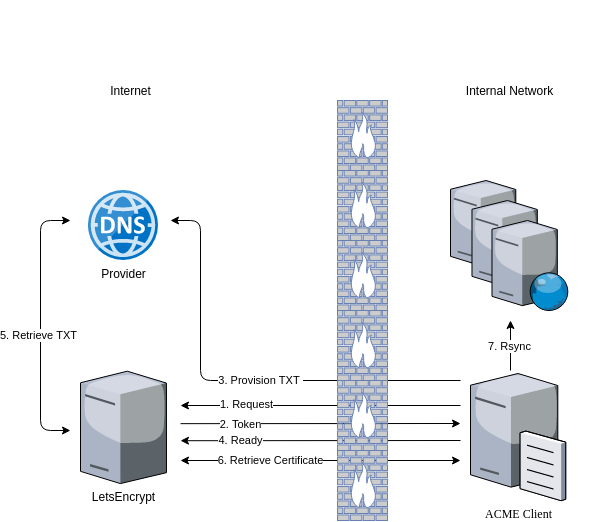
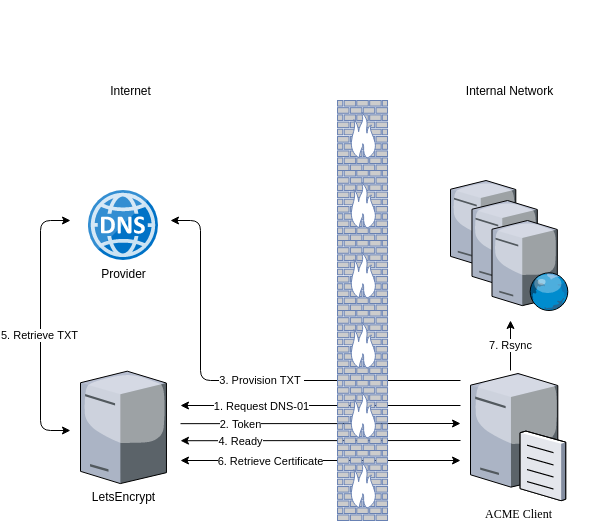
Add image for http-01 challenge and update dns-01 challenge image.

diff --git a/README.md b/README.md
@@ -47,7 +47,7 @@ If you have **limited** access to the internet you could do something like.
 
 ![Simplified DNS-01](Simplified-DNS-01.png)
 
-The above image *roughly* demonstrates how the DNS-01 challenge could be used in this scenario. The ACME client requests a certificate. It is given a token by the CA (LetsEncrypt). It then provisions a TXT record with the token which is concatenated with the thumbprint of the authorization key to create the TXT file on the DNS. Once this is done then it tells the CA the challenge has been met. The CA then makes a DNS lookup and retrieves the record. If all is good the the agent can then retrieve the certificate, which it must distribute as necessary for use by web services.
+The above image *roughly* demonstrates how the DNS-01 challenge could be used in this scenario. The ACME client requests a certificate. It is given a token by the CA (LetsEncrypt). It then provisions a TXT record with the token, which is concatenated with the thumbprint of the authorization key, to create the TXT file on the DNS. Once this is done then it tells the CA the challenge has been met. The CA then makes a DNS lookup and retrieves the record. If all is good the client can then retrieve the certificate, which it must distribute as necessary for use by web services.
 
 ## Zero Access
 
@@ -62,14 +62,18 @@ All you really need is.
 * A CA which supports ACME.
 * The root and/or intermediate certificates distributed to the trust store of the hosts on the internal network.
 
+![Simplified HTTP-01](Simplified-HTTP-01.png)
+
+The above image *roughly* demonstrates how the HTTP-01 challenge could be used in this scenario. The ACME client requests a certificate. It is given a token by the internal CA. It then puts a file with the token, which is concatenated with the thumbprint of the authorization key, at `http://<YOUR_DOMAIN>/.well-known/acme-challenge/<TOKEN>` on the server. Once this is done then it tells the CA the challenge has been met. The CA then tries retrieving it. If all is good the agent can then retrieve the certificate.
+
 # Solution
 The solution I chose is a full Certificate Authority on the internal network. 
 
 * A lot of companies already have internal certificates they distribute to hosts on the internal network. The only piece that is missing is the ACME support.
 
-* Distributing the certificates (rsync often) from one exposed ACME client to the hosts that needs them is just an added complexity.
+* Distributing the certificates from one exposed ACME client to the hosts that needs them is just an added complexity.
 
-* There is a Certificate Authority (CA), provided by [Smallstep](https://github.com/smallstep/certificates), which supports the [ACME](https://en.wikipedia.org/wiki/Automated_Certificate_Management_Environment) protocol. It is **open source**, lightweight, and provides multiple ways to provision and manage certificates. 
+* There is a CA, provided by [Smallstep](https://github.com/smallstep/certificates), which supports the [ACME](https://en.wikipedia.org/wiki/Automated_Certificate_Management_Environment) protocol. It is **open source**, lightweight, and provides multiple ways to provision and manage certificates. 
 
 * The Smallstep CA was built for DevOps and Modern Systems. It can packaged into a container, run on a K8's cluster, automated with provisioning tools like Chef, Ansible, Puppet, etc.
 
